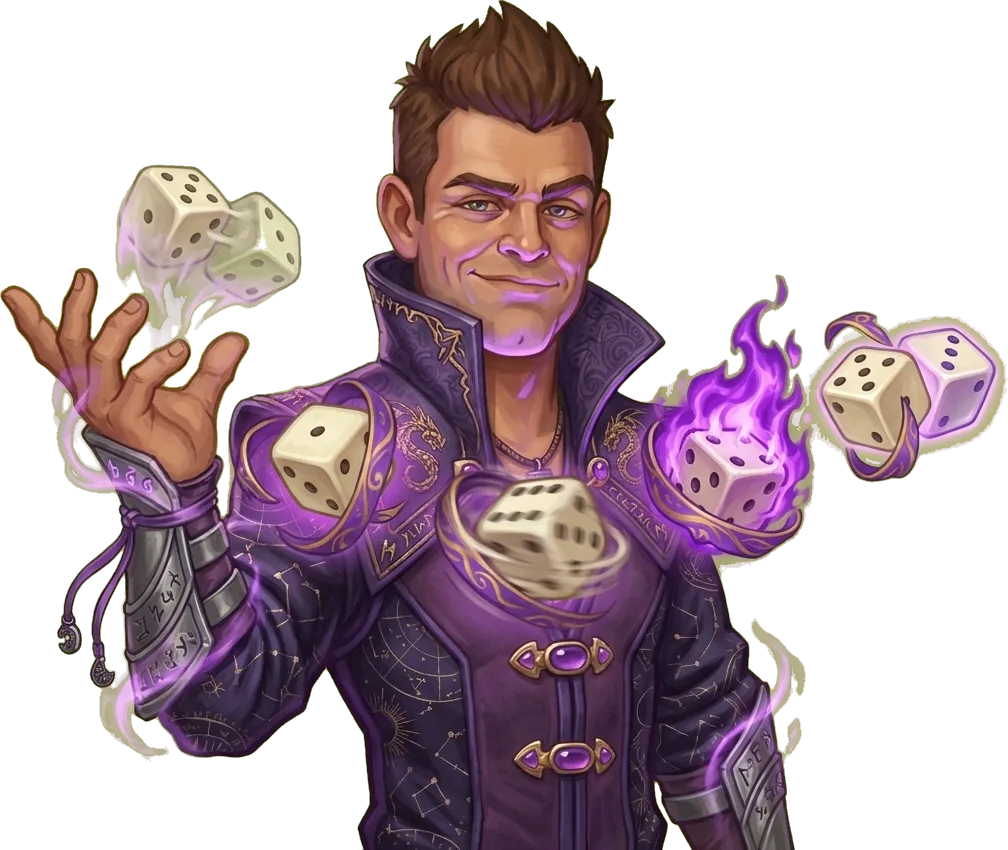
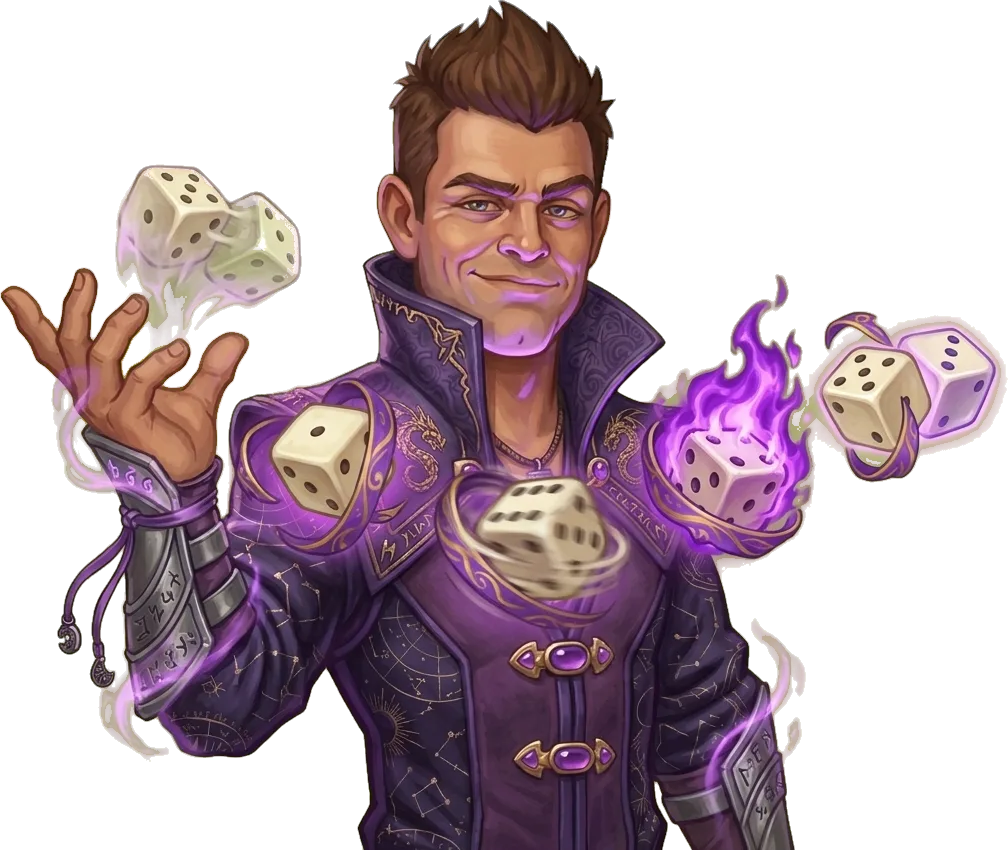
The look check: a tidier phone footer, a calmer tabletop, Klarg's stolen die
- Upright phones: the purse, shelf and keepsakes on one tray, the turn score
  centred when there's nothing to beat, cleaner score numerals.
- Computers: the tabletop darkens away from the tray.
- The choice between fights on phones: the place's painting up top, bigger cards.
- Aed's ability painting: its smoke unmixed from the green background.
- The dice not yet thrown: a new face under the dice's lacquer.
- Fix: the die Klarg steals was drawn part-way inside another die while it
  waited for his paw.
- Docs: the go-live check's open items and recommendations; README counts.

diff --git a/client/src/styles.css b/client/src/styles.css
@@ -3962,3 +3962,47 @@ button.film-skip:active, button.sail-skip:active, div.tr-after button:active, bu
 .game-menu .menu-save-buttons { display: flex; gap: 8px; }
 .game-menu .menu-save-buttons button { flex: 1; min-height: 42px; }
 .look-next header .menu-burger.open { filter: brightness(1.08); }
+
+/* ==== A tidier footer on upright phones (15 Nov, the look check's item 1; new look) ==== */
+/* The purse, the Thonic shelf and the keepsakes sat loose on the bare wood, and with nothing to beat
+   yet the turn score hung off to the right of an empty space. Now the strip is one dark tray in a
+   brass rim, and the turn score sits in the middle when it's alone. (The tray's margins give back its
+   padding and rim, so the footer keeps its height and the table doesn't move.) */
+@media (orientation: portrait) and (max-width: 600px) {
+    .look-next footer .tavern-strip {
+        padding: 4px 8px; margin: -5px 0; border-radius: 16px;
+        background: linear-gradient(rgba(34, 20, 10, 0.72), rgba(20, 11, 5, 0.8)); border: 1px solid rgba(224, 180, 76, 0.45);
+        box-shadow: inset 0 1px 0 rgba(255, 220, 160, 0.14), 0 2px 8px rgba(0, 0, 0, 0.45);
+    }
+    .look-next footer .controls:has(.goal.placeholder) { column-gap: 0; }
+    .look-next footer .goal.placeholder { width: 0; padding-left: 0; padding-right: 0; border-left: 0; border-right: 0; overflow: hidden; white-space: nowrap; flex-wrap: nowrap; }
+}
+/* The turn score's and the score to beat's numbers in the reading face: Almendra's bold 0 drew as a blob. */
+.look-next .turn-score .value, .look-next .goal .target { font-family: var(--read); font-variant-numeric: lining-nums; }
+
+/* ==== The choice between fights on upright phones (15 Nov, the look check's item 3) ==== */
+/* The two cards floated mid-screen over a backdrop dimmed nearly to black, the bottom of the screen
+   empty. Now the place's painting shows through the top of the screen, and the purse, the heading and
+   two bigger cards sit together in the lower part, in the dark that rises from the bottom. */
+@media (orientation: portrait) and (max-width: 600px) {
+    .interlude-scene.choosing::before {
+        background: linear-gradient(rgba(10, 5, 2, 0.18), rgba(10, 5, 2, 0.3) 26%, rgba(8, 4, 2, 0.86) 50%, rgba(8, 4, 2, 0.95));
+    }
+    .interlude-scene.choosing .interlude-body { margin: auto 0 max(18px, 5vh); gap: 12px; }
+    .interlude-scene.choosing .spot-card { padding: 18px 10px 16px; gap: 8px; }
+    .interlude-scene.choosing .spot-pic { width: clamp(96px, 33vw, 150px); height: clamp(96px, 33vw, 150px); }
+    .interlude-scene.choosing .spot-card strong { font-size: clamp(1.1rem, 5vw, 1.4rem); }
+    .interlude-scene.choosing .spot-card .line { font-size: clamp(0.85rem, 3.8vw, 1rem); }
+    .interlude-scene.choosing .spot-card .offer { font-size: clamp(0.8rem, 3.5vw, 0.95rem); padding-top: 8px; }
+    .interlude-scene.choosing .link-button { font-size: 1rem; padding: 10px; }
+}
+/* (A short phone keeps the smaller pictures, so nothing scrolls.) */
+@media (orientation: portrait) and (max-width: 600px) and (max-height: 700px) {
+    .interlude-scene.choosing .spot-pic { width: clamp(80px, 26vw, 110px); height: clamp(80px, 26vw, 110px); }
+    .interlude-scene.choosing .spot-card { padding: 12px 8px; gap: 5px; }
+}
+/* (The reading face stands taller than Almendra: the same line height as before, so the footer, and with it the table, stays where it was.) */
+.look-next .turn-score .value, .look-next .goal .target { line-height: 1.28; }
+@media (orientation: portrait) and (max-width: 600px) {
+    .interlude-scene.choosing .spot-card strong { font-size: clamp(1.05rem, 4.5vw, 1.3rem); }
+}

diff --git a/client/src/textures.ts b/client/src/textures.ts
@@ -49,21 +49,38 @@ function faceTexture(value: number) {
     });
 }
 
+// A die not yet thrown (and Jaguar's cloaked dice): midnight blue with a gold "?". (15 Nov, the look
+// check: it was a flat blue block beside the lacquered dice. Now a darker rim, a fine gold line round
+// the face and a "?" with a shadow under it and a light along its top, under the same lacquer.)
 function hiddenTexture() {
     return canvasTexture(ctx => {
-        const g = ctx.createRadialGradient(SIZE / 2, SIZE / 2, 10, SIZE / 2, SIZE / 2, SIZE * 0.7);
-        g.addColorStop(0, '#2b4a7a');
-        g.addColorStop(1, '#0e1a33');
+        const g = ctx.createRadialGradient(SIZE * 0.5, SIZE * 0.46, 8, SIZE / 2, SIZE / 2, SIZE * 0.72);
+        g.addColorStop(0, '#34588f');
+        g.addColorStop(0.6, '#1b2f57');
+        g.addColorStop(1, '#0a1226');
         ctx.fillStyle = g;
         ctx.fillRect(0, 0, SIZE, SIZE);
-        for (let i = 0; i < 26; i++) {
-            ctx.fillStyle = `rgba(255,255,255,${0.3 + Math.random() * 0.6})`;
+        for (let i = 0; i < 22; i++) {
+            ctx.fillStyle = `rgba(255,255,255,${0.25 + Math.random() * 0.5})`;
             ctx.fillRect(Math.random() * SIZE, Math.random() * SIZE, 2, 2);
         }
-        ctx.fillStyle = '#ffd54f';
-        ctx.font = `bold ${SIZE * 0.55}px Georgia, serif`;
+        // The gold line, a little way in from the edge.
+        const m = SIZE * 0.13, r = SIZE * 0.07;
+        ctx.strokeStyle = 'rgba(232,190,96,0.7)';
+        ctx.lineWidth = SIZE * 0.012;
+        ctx.beginPath();
+        ctx.roundRect(m, m, SIZE - m * 2, SIZE - m * 2, r);
+        ctx.stroke();
+        ctx.font = `bold ${SIZE * 0.5}px Almendra, Georgia, serif`;
         ctx.textAlign = 'center';
         ctx.textBaseline = 'middle';
+        ctx.fillStyle = 'rgba(4,8,20,0.75)';
+        ctx.fillText('?', SIZE / 2 + 3, SIZE / 2 + 10);
+        const gold = ctx.createLinearGradient(0, SIZE * 0.28, 0, SIZE * 0.74);
+        gold.addColorStop(0, '#fff0b8');
+        gold.addColorStop(0.45, '#ffd257');
+        gold.addColorStop(1, '#c98f1e');
+        ctx.fillStyle = gold;
         ctx.fillText('?', SIZE / 2, SIZE / 2 + 6);
     });
 }
@@ -220,7 +237,8 @@ export const STARRY_GLOW = 0.55;
 export function createDiceMaterials() {
     const faces = FACE_VALUES.map(v => finish(new DiceMaterial({ map: faceTexture(v), ...diceMaterialProps, ...lacquer, ...ivory })));
     const hiddenMap = hiddenTexture();
-    const hidden = FACE_VALUES.map(() => new THREE.MeshStandardMaterial({ map: hiddenMap, emissive: new THREE.Color('#1c3d6e'), emissiveIntensity: 0.6, ...diceMaterialProps }));
+    // (the new look: under the dice's lacquer, lit by the room more than by itself)
+    const hidden = FACE_VALUES.map(() => new DiceMaterial({ map: hiddenMap, emissive: new THREE.Color('#1c3d6e'), emissiveIntensity: lookNext ? 0.52 : 0.6, ...diceMaterialProps, ...(lookNext ? { roughness: 0.4, clearcoat: 0.6, clearcoatRoughness: 0.22 } : {}) }));
     // The Loaded Die keepsake's die: the same faces, warmed to old gold so it stands out.
     const loaded = FACE_VALUES.map((_, i) => finish(new DiceMaterial({ map: faces[i].map, color: new THREE.Color('#e9b864'), ...diceMaterialProps, ...lacquer, ...(lookNext ? { metalness: 0.35 } : {}) })));
     // Frak's Mind Whip: the die he made you keep glows his sickly green and violet.

diff --git a/client/src/TableDressing.tsx b/client/src/TableDressing.tsx
@@ -107,6 +107,43 @@ function coinFace() {
     return texture;
 }
 
+// A pool of light on a computer's tabletop (15 Nov, the look check's item 2): a wide window showed the
+// small tray in a field of bright orange planks, which pulled the eye off the dice. The wood now
+// darkens and greys a little away from the tray and the slot rail, as if lit from over the table.
+// The plane is the tabletop's own (40 wide, from its far edge to z = 24), so nothing reaches past the table.
+const POOL_W = 40, POOL_Z0 = TRAY.minZ - 1.0, POOL_D = 24 - POOL_Z0;
+function poolTexture() {
+    const n = 512;
+    const canvas = document.createElement('canvas');
+    canvas.width = canvas.height = n;
+    const ctx = canvas.getContext('2d')!;
+    // Drawn in table units about the middle of the tray and the slot rail: clear to about 6 units out
+    // (the tray's rails are 4 out), then falling away to the sides and the near end.
+    const R = 20, midZ = (TRAY.minZ + SLOT_ROW_Z + 0.7) / 2;
+    ctx.translate(n / 2, ((midZ - POOL_Z0) / POOL_D) * n);
+    ctx.scale(n / POOL_W, n / POOL_D);
+    const g = ctx.createRadialGradient(0, 0, 0, 0, 0, R);
+    g.addColorStop(0, 'rgba(14,8,6,0)');
+    g.addColorStop(0.24, 'rgba(14,8,6,0)');
+    g.addColorStop(0.42, 'rgba(14,8,6,0.46)');
+    g.addColorStop(0.7, 'rgba(14,8,6,0.72)');
+    g.addColorStop(1, 'rgba(14,8,6,0.82)');
+    ctx.fillStyle = g;
+    ctx.fillRect(-POOL_W, -POOL_D, POOL_W * 2, POOL_D * 2);
+    const texture = new THREE.CanvasTexture(canvas);
+    texture.colorSpace = THREE.SRGBColorSpace;
+    return texture;
+}
+function Pool() {
+    const map = useMemo(poolTexture, []);
+    return (
+        <mesh rotation={[-Math.PI / 2, 0, 0]} position={[0, -0.008, POOL_Z0 + POOL_D / 2]} renderOrder={0} raycast={() => null}>
+            <planeGeometry args={[POOL_W, POOL_D]} />
+            <meshBasicMaterial map={map} transparent depthWrite={false} toneMapped={false} />
+        </mesh>
+    );
+}
+
 function Shadow({ x, z, y, w, h, edge, strength, inner = false, order = 1 }: { x: number; z: number; y: number; w: number; h: number; edge: number; strength: number; inner?: boolean; order?: number }) {
     const map = useMemo(() => shadowTexture(w, h, edge, strength, inner), [w, h, edge, strength, inner]);
     return (
@@ -144,6 +181,7 @@ export function TableDressing({ railMap }: { railMap: THREE.Texture }) {
 
     return (
         <group>
+            {desktop && <Pool />}
             {/* Soft shadows: the tray and the slot rail on the tabletop, the felt by the rails. */}
             <Shadow x={cx} z={cz} y={-0.006} w={width + (RAIL + CAP_OUT) * 2 + 1.4} h={depth + (RAIL + CAP_OUT) * 2 + 1.4} edge={0.7} strength={0.55} />
             <Shadow x={0} z={SLOT_ROW_Z} y={-0.006} w={width + 0.9 + 0.8} h={1.25 + 0.7} edge={0.35} strength={0.35} />

diff --git a/client/src/game.ts b/client/src/game.ts
@@ -563,8 +563,12 @@ socket.on('diceRolled', (data: { sea?: number; turn: TurnView; preRollCallout: s
         // stole earlier in the turn stays out of play; one he takes now was thrown first.)
         const before = snapshot.turn && snapshot.turn.key === turn.key ? snapshot.turn : null;
         // (A Fizzy Thomic throws only the dice it names.)
-        const thrownIds = data.rerolled ? new Set(data.rerolled) : new Set((before ? before.dice : turn.dice.filter(d => d.status !== 'stolen'))
-            .filter(d => d.status === 'active' && !turn.dice.some(n => n.id === d.id && n.washed)).map(d => d.id));
+        // (15 Nov: with no turn known from before this throw, a hand's first throw, the die Klarg takes from
+        // it was left out: it stayed in its waiting place while the others landed on and through it.)
+        const pool = before ? before.dice.filter(d => d.status === 'active')
+            : turn.dice.filter(d => d.status === 'active' || (d.status === 'stolen' && turn.rollCount === 1));
+        const thrownIds = data.rerolled ? new Set(data.rerolled) : new Set(pool
+            .filter(d => !turn.dice.some(n => n.id === d.id && n.washed)).map(d => d.id));
         const rolled = turn.dice.filter(d => thrownIds.has(d.id));
         // (Aboard a listing ship the dice drift to the low side: data.sea.)
         const track = simulateRoll(rolled.map(d => d.id), rolled.map(d => (d.hidden ? 0 : d.value)), data.throwSeed, data.sea ?? 0);

diff --git a/client/src/Dice.tsx b/client/src/Dice.tsx
@@ -342,6 +342,10 @@ export function Dice() {
                     mesh.scale.setScalar(1 - 0.25 * Math.max(0, (t - GRIP) / (1 - GRIP)));
                     mesh.visible = t < 0.97;
                     targetQuat.copy(mesh.quaternion);
+                    // (15 Nov: the target was left as the last die's, so each frame the stolen die was drawn
+                    // part of the way towards another die, further on a slow frame: the "glitch" before the
+                    // paw took it, and on a slow page it sat right inside the other die.)
+                    targetPos.copy(mesh.position);
                 } else if (isLocked(die)) {
                     const slot = slots.get(die.id) ?? 2;
                     targetPos.copy(slotPosition(slot, scoringCount));

diff --git a/client/src/Hud.tsx b/client/src/Hud.tsx
@@ -1820,7 +1820,7 @@ function Interlude({ state }: { state: GameState }) {
         return <SpotScene key={spot} spot={spot} state={state} next={next} leaving={leaving} onMoveOn={moveOn} onLookAround={lookAround} />;
     }
     return (
-        <div className={`interlude-scene ${leaving ? 'leaving' : ''}`} role="dialog" aria-label="Between fights"
+        <div className={`interlude-scene choosing ${leaving ? 'leaving' : ''}`} role="dialog" aria-label="Between fights"
             style={{ backgroundImage: `url("${import.meta.env.BASE_URL}art/${placeBackdrop(state.tavernRun?.place)}")` }}>
             <div className="interlude-body">
                 <PurseLine state={state} />

diff --git a/docs/open-questions.md b/docs/open-questions.md
@@ -9,6 +9,62 @@ day they happen, with what's been built marked as it lands.
 
 ## Open
 
+### Going live (the end-to-end check of 15 Nov)
+Checked: 181 server tests and 19 client tests pass, the client builds with no type errors and no dev hooks
+in it, the merge into `main` is clean, the test site serves this exact build, 17,200 junk messages didn't
+crash a test server. What's left to decide or fix before the merge:
+- **A crawl is lost when the phone is away for 2 minutes.** A table with nobody connected is deleted after
+  120 s (`EMPTY_TABLE_GRACE_MS`); coming back starts a fresh crawl at Sperm McGrath, with no word of why
+  (checked). Fix: keep a Tavern Crawl table far longer (an hour?), and/or keep each fight's save on the
+  phone by itself. Which?
+- **The live server restarting loses every game in play** (a deploy, a crash, or the free tier's sleep).
+  Which Render plan is the live service on? A save kept by itself at each fight would cover crawls.
+- **Nothing catches an unexpected error on the server:** one would stop the server and end every table.
+  Add a safety net (log it, keep running)?
+- **Two people can land at one crawl table:** the code is `TVRN-` plus four random digits, and a second
+  person who gets (or types) the same one is seated in the first one's run (checked). Refuse them, and
+  make the code longer?
+- **`/` stays the classic page after the merge**, with no link to `/next`. Is going live "the new game at
+  `/`" (next step 12) or "the new game at `/next`, with a link from the old page"?
+- **`npm audit` lists 8 known weaknesses in the server's packages** (express's and socket.io's parts,
+  mostly ways to overload a server); `npm audit fix` updates them without breaking changes. Run it and
+  re-test?
+- **iPhones have never been tried** (sound starting, screen height, WebGL), nor a save replayed after a
+  server restart (a save "opens once" only while the server stays up: `openedSaves` is in memory).
+- The live service's settings (step 11): build command, its own `SAVE_SECRET`, `DATABASE_URL` (the same
+  Neon database as the test site, with its test scores, or a clean one?).
+
+### Claude's recommendations for what to do next (15 Nov; none chosen yet)
+In the order I'd do them:
+1. **Never lose a crawl:** keep each fight's save on the phone by itself (the server already seals one as every
+   fight starts, `run.fightSave`), and keep a Tavern Crawl table for an hour instead of 2 minutes. Covers the phone
+   being away, a deploy and the server's sleep. About half a day.
+2. **A safety net on the server and one person per crawl table** (log an unexpected error and keep running;
+   refuse a second person at a `TVRN-` table). Small.
+3. **`npm audit fix`**, then the tests again. Small.
+4. **Try it on an iPhone** before friends do (sound starting, screen height, the 3D table).
+5. **Light and living backdrops per place** (the Portal's cool well light, swinging lanterns aboard, the fire
+   flickering): the biggest lift left for the look.
+6. **The sounds still missing:** Jaguar's three phases, Becalmed, the five silent scenes, music for the Yawning
+   Portal and the ship (the list is in `docs/art-direction.md`).
+7. **A faster first load:** the 9.5 MB ambience track compressed, three.js loaded after the start screen.
+8. **Teach the balance simulator the newer things** (Áéd, the sea, the Elf Bars, the Bard, the new keepsakes),
+   then set the first-guess numbers.
+9. **A first-crawl hint or two** against Sperm McGrath for someone who has never played (tap a die to keep it,
+   why Roll waits): the entrance card explains the rules, nothing shows them on the table.
+10. Small polish: the pale rim round Áéd's right-hand dice; your chip joining the footer's tray; a computer's
+    multiplayer cards up in the header.
+
+### The look: the five fixes of 15 Nov (to judge on a phone and a computer)
+Built 15 Nov from the look check (before/after in `previews/look5/`), not yet seen by the user on a real phone:
+- The phone's footer: the purse, shelf and keepsakes on one dark tray; the turn score in the middle when there's nothing to beat yet; the scores' numbers in Alegreya (Almendra's bold 0 drew as a blob). Good, or should the chip join the tray too?
+- A computer's tabletop darkens away from the tray (a pool of light). Strong enough, too strong?
+- The choice between fights on upright phones: the place's painting shows up top, bigger cards below.
+- Áéd's painting: its smoke unmixed from the green (it was khaki). A pale rim is still left round his right-hand dice.
+- The dice not yet thrown: a darker blue with a gold line and a shaded "?", under the dice's lacquer.
+- Found on the way, a real bug (what looked like smeared pips): the die Klarg takes was drawn part of the way inside another die while it waited for his paw, worse on slow frames. Fixed (Dice.tsx). Is this what looked weird on 10 Nov?
+- Still the biggest lift, not built: light and living backdrops per place.
+
 ### The game's interface (`docs/ui-brainstorm.md`, 12 Nov)
 - All eight ideas are built (12 Nov; the ability marks as gems were reverted, the "Your turn" tab taken out). Should the turn score move into your chip after all (it would shift the table a little on phones)?
 - The hearts: drawn in CSS/SVG first, or a painted heart (full, empty) from the user?

diff --git a/CLAUDE.md b/CLAUDE.md
@@ -942,7 +942,7 @@ https://claude.ai/code/artifact/62ce683b-44ba-43a1-b71b-9dbe3b33d094
 
 ## Next steps (in order)
 
-0. **The user's notes of 13 Nov evening (`docs/todo-14-nov.md`) were all done on 14 Nov** (not yet committed or pushed):
+0. **Going live: the end-to-end check of 15 Nov found no bug in the rules or the build, but four things to fix first** (`docs/open-questions.md`, "Going live": a crawl lost after 2 minutes away, restarts, no safety net for server errors, two people at one crawl table; the user's word, 15 Nov: leave them as known open items). **The look check of 15 Nov, five fixes built (pushed 15 Nov; what to do next is listed in `docs/open-questions.md`, "Claude's recommendations"; before/after in `previews/look5/`, shot by `previews/look5/shoot.sh before|after`):** an upright phone's strip (purse, shelf, keepsakes) sits on one dark tray and the turn score is centred when nothing is to beat (the hidden `.goal.placeholder` is collapsed; the scores' numbers are Alegreya); a computer's tabletop darkens away from the tray (`Pool` in TableDressing.tsx, `desktop` only); the choice between fights on upright phones shows the place's painting up top with bigger cards below (`.interlude-scene.choosing`); Áéd's painting's smoke is unmixed from its green (`khaki` in `despillGreen`, for `green: 'all'`); the dice not yet thrown have a new face under the dice's lacquer (`hiddenTexture`). A bug found on the way (what looked like smeared pips): the die Klarg takes was drawn part of the way towards another die while it waited for his paw, further on a slow frame (in Dice.tsx the stolen die kept the last die's `targetPos`); fixed, and `thrownIds` in game.ts now includes a die stolen on a hand's first throw when no turn was known before it. In headless stills the bust can still be fading in 6 s after a fight is set (the software renderer; a real browser shows it whole). `test/shots.mjs` takes `pre=purse?n=37|shelf?ids=...` (dev controls called once the fight is set). All to judge on a phone. The user's notes of 13 Nov evening (`docs/todo-14-nov.md`) were all done on 14 Nov (committed and pushed):
    Klarg's two paintings re-cut crisper (`choke`, `sharpen` in `cutOutFlat`, shorter fades); the ship's five dice sets
    keep their painted texture and pips (`TEXTURED` in process-art.mjs; Jaguar's at 0.6); Smooth Talk at the round's end;
    a hidden hand's score in the round's result and on the nameplate (`reveal` on `roundResult`, `revealed` in the

diff --git a/README.md b/README.md
@@ -47,7 +47,7 @@ Art: originals are in `art/`; `npm --prefix client run art` regenerates the game
 |---|---|
 | blank or any code | Classic multiplayer. Share the code with friends. |
 | `JUGS` | Classic multiplayer with a league table: every finished game is counted by player name, games won and played. |
-| `TAVERN` | Tavern Crawl: fourteen fights across three places (the Ghoul and Gourd, the Yawning Portal, then the Salty Swallow), Thonics, events between fights, keepsakes, gold to spend (prices rise as you buy) and a leaderboard by points. A run can be saved after each place. |
+| `TAVERN` | Tavern Crawl: fifteen fights across three places (the Ghoul and Gourd, the Yawning Portal, then the Salty Swallow), Thonics, events between fights, keepsakes, gold to spend (prices rise as you buy) and a leaderboard by points. A run can be saved after each place. |
 
 ## Project layout
 
@@ -86,6 +86,6 @@ npm test
 | `GAME_TIME_SCALE` | Multiplies all server delays, e.g. `0.01` in tests |
 | `DATABASE_URL` | The Neon Postgres link. Without it the leaderboard, who has met whom and the league live in files |
 | `LEADERBOARD_READONLY` | Set to anything to stop writing those files and reading `.env.local` (local testing) |
-| `TAVERN_START_ENCOUNTER` | Start Tavern Crawl runs at a later opponent, for testing (1 = Frak … 5 = Sylvester … 10 = Klarg … 13 = Jaguar) |
+| `TAVERN_START_ENCOUNTER` | Start Tavern Crawl runs at a later opponent, for testing (1 = Frak … 5 = Sylvester … 10 = Klarg … 12 = Áéd … 14 = Jaguar) |
 | `GAME_SERVER` | Game server the client's dev server proxies to (default `http://localhost:3000`) |
 | `SAVE_SECRET` | Seals saved Tavern Crawl runs. Set it in production, or saves only last until the server restarts |
